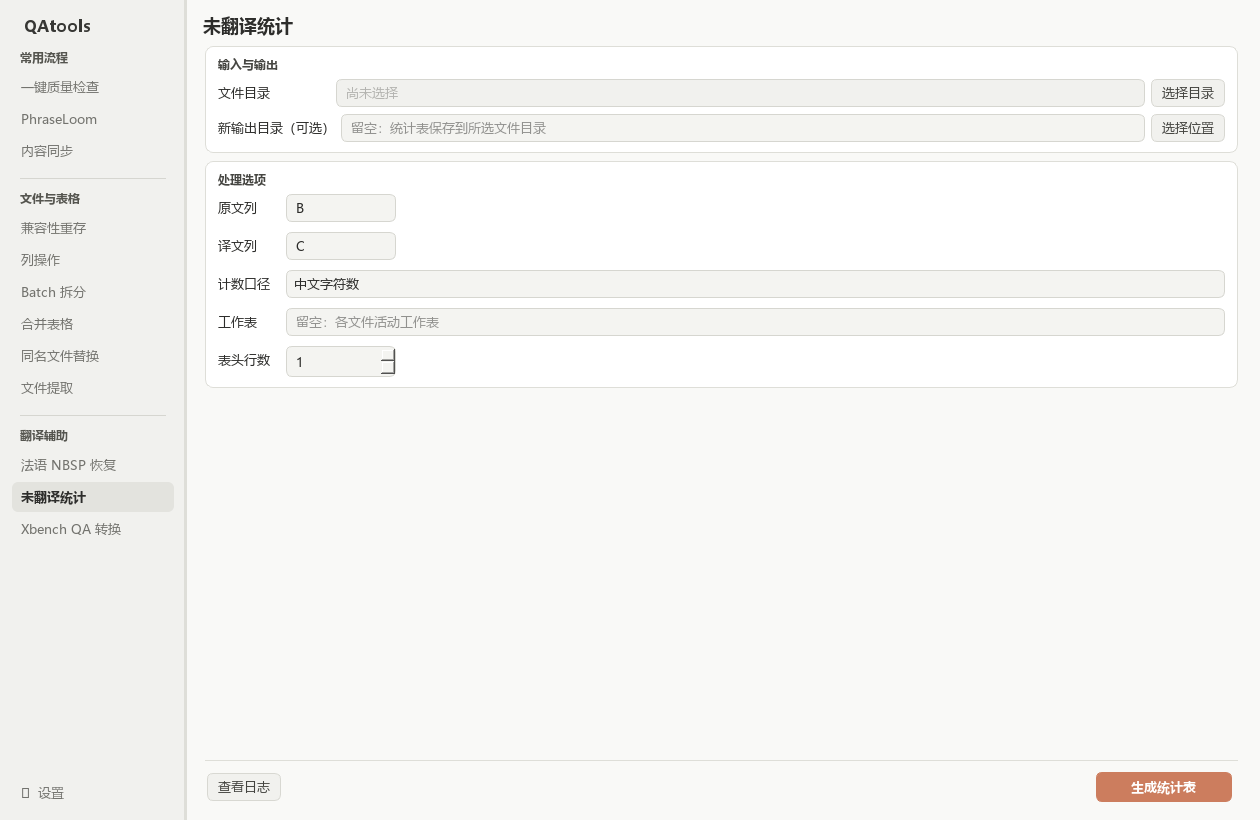
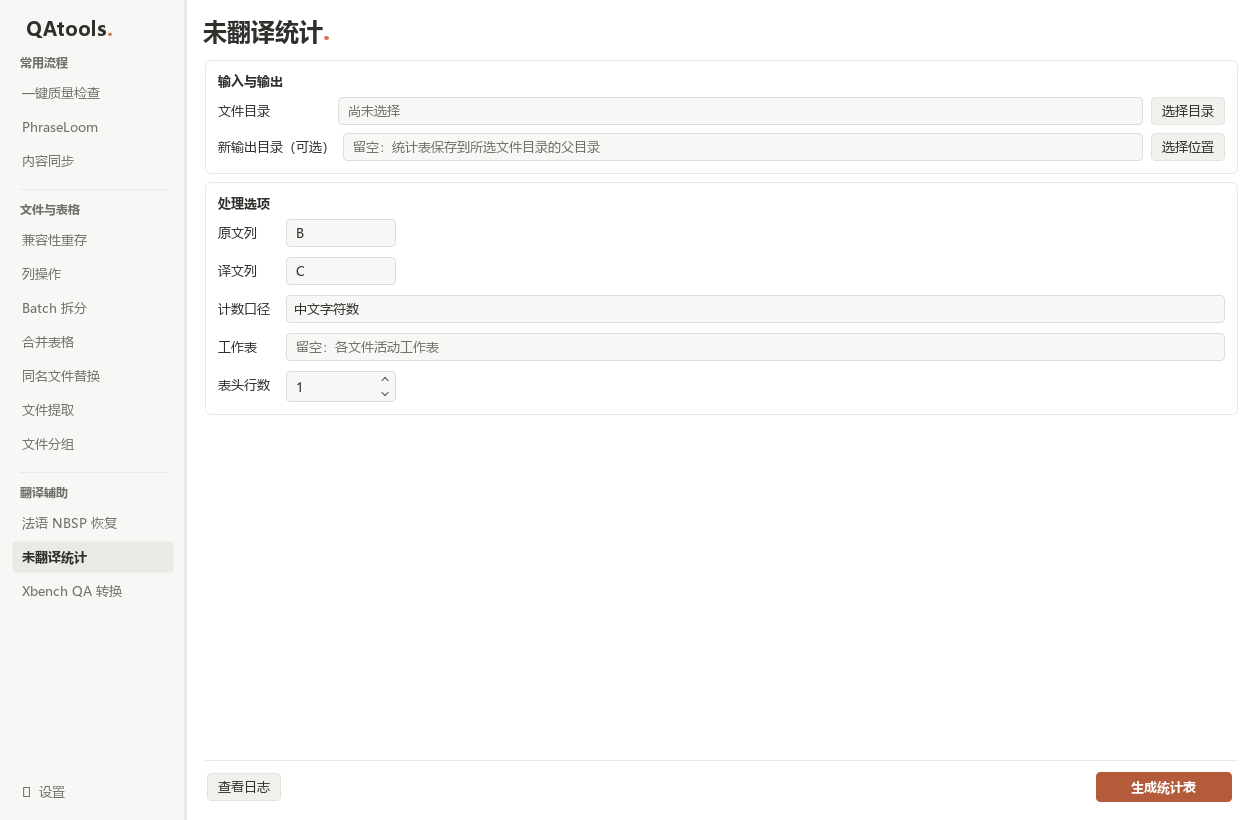
fix: save untranslated statistics in parent directory and release 0.1.10

diff --git a/docs/qa-workflow-guide/index.html b/docs/qa-workflow-guide/index.html
@@ -757,7 +757,7 @@
           </header>
           <h3>操作步骤</h3>
           <ol class="steps">
-            <li><strong>选择目录</strong><span>选择需要统计的工作簿目录。输出目录留空时，统计表放在这个目录；也可指定新目录。</span></li>
+            <li><strong>选择目录</strong><span>选择需要统计的工作簿目录。输出目录留空时，统计表放在所选目录的父目录；也可指定新目录。</span></li>
             <li><strong>确认列与口径</strong><span>默认原文 B 列、译文 C 列、1 行表头、活动工作表。按项目选择中文字符数或英文词数。</span></li>
             <li><strong>生成统计表</strong><span>点击【生成统计表】，打开“未翻译统计.xlsx”，查看各文件与最后一行总计。</span></li>
           </ol>

diff --git a/tests/test_momotools_utilities.py b/tests/test_momotools_utilities.py
@@ -171,19 +171,27 @@ class ReverseSyncTests(UtilityFixtures):
 
 
 class StatsTests(UtilityFixtures):
-    def test_default_saves_beside_inputs_and_repeated_run_excludes_own_result(self):
+    def test_default_saves_in_parent_and_repeated_run_excludes_legacy_report(self):
         path = self.targets / "a.xlsx"
         workbook(path, [["id", "s", "t"], [1, "你好", None]])
+        legacy = self.targets / "未翻译统计.xlsx"
+        workbook(legacy, [["id", "s", "t"], [1, "不应计入的旧结果", None]])
+        legacy_original = legacy.read_bytes()
         original = path.read_bytes()
         first = untranslated_stats(self.targets)
-        second = untranslated_stats(self.targets)
-        self.assertEqual(first.output_dir, self.targets)
+        second = untranslated_stats(self.targets, output_dir=" \t")
+        self.assertEqual(first.output_dir, self.targets.parent)
+        self.assertEqual(Path(first.details["excel_report"]), self.targets.parent / "未翻译统计.xlsx")
+        self.assertEqual(second.details["excel_report"], first.details["excel_report"])
         self.assertEqual(second.details["totals"], [2, 1, 2, 1])
         self.assertEqual(second.details["deduplicated_totals"], [2, 1, 2, 1])
         self.assertEqual(len(second.results), 1)
         self.assertEqual(path.read_bytes(), original)
+        self.assertEqual(legacy.read_bytes(), legacy_original)
         self.assertEqual({p.name for p in self.targets.iterdir()}, {"a.xlsx", "未翻译统计.xlsx"})
         copied = untranslated_stats(self.targets, output_dir=self.root / "statistics")
+        self.assertEqual(Path(copied.details["excel_report"]), self.root / "statistics" / "未翻译统计.xlsx")
+        self.assertTrue(Path(copied.details["excel_report"]).is_file())
         self.assertEqual(copied.details["totals"], second.details["totals"])
         self.assertEqual(copied.details["deduplicated_totals"], second.details["deduplicated_totals"])
 

diff --git a/tools/untranslated_stats/stats.py b/tools/untranslated_stats/stats.py
@@ -43,9 +43,9 @@ def untranslated_stats(target_dir: str | Path, *, output_dir: str | Path | None 
     if isinstance(header_rows, bool) or not isinstance(header_rows, int) or not 0 <= header_rows < 1048576:
         raise ValueError("表头行数必须是 0–1048575 的整数。")
     folder = Path(target_dir).expanduser().resolve()
-    output, inplace = optional_output_directory(output_dir, default=folder, inputs=(folder,))
+    output, use_default_output = optional_output_directory(output_dir, default=folder.parent, inputs=(folder,))
     report_file = output / "未翻译统计.xlsx"
-    files, skipped = excel_files(folder, extensions={".xlsx", ".xlsm"}, exclude=() if inplace else (output,))
+    files, skipped = excel_files(folder, extensions={".xlsx", ".xlsm"}, exclude=() if use_default_output else (output,))
     # The tool's reserved result name must never become its next source workbook.
     files = [path for path in files if path.name.casefold() != "未翻译统计.xlsx"]
     if not files:
@@ -99,7 +99,7 @@ def untranslated_stats(target_dir: str | Path, *, output_dir: str | Path | None 
         if result.status == "skipped":
             log_result(log_callback, result)
     deduplicated_totals = _deduplicated_counts(all_sources, all_untranslated_sources)
-    if not inplace:
+    if not use_default_output:
         create_output_directory(output)
     report = Workbook()
     try:

diff --git a/tools/untranslated_stats/cli.py b/tools/untranslated_stats/cli.py
@@ -4,14 +4,14 @@ from tools.batch_cli import add_output_options, column, execute, header_rows
 
 
 def main(argv=None):
-    parser = argparse.ArgumentParser(prog="qatools untranslated-stats", description="统计未翻译量；默认将统计表写入所选目录")
+    parser = argparse.ArgumentParser(prog="qatools untranslated-stats", description="统计未翻译量；默认将统计表写入所选目录的父目录")
     parser.add_argument("target_dir", help="工作簿目录，递归处理")
     parser.add_argument("-c", "--source-column", type=column, default="B", help="原文列（默认 B）")
     parser.add_argument("-t", "--target-column", type=column, default="C", help="译文列（默认 C）")
     parser.add_argument("--sheet", help="工作表名；省略使用活动工作表")
     parser.add_argument("--header-rows", type=header_rows, default=1, help="表头行数（默认 1）")
     parser.add_argument("--mode", choices=("chinese_chars", "english_words"), default="chinese_chars", help="计数口径（默认 chinese_chars）")
-    add_output_options(parser)
+    add_output_options(parser, default_action="将统计表保存到所选目录的父目录")
     options = vars(parser.parse_args(argv))
     from .stats import untranslated_stats
     return execute(untranslated_stats, **options)

diff --git a/scripts/capture_gui_guide.py b/scripts/capture_gui_guide.py
@@ -55,10 +55,11 @@ def main(tool=None):
                 raise RuntimeError(f"Could not save {name}")
             print(name)
 
-        if tool == "file_grouping":
-            capture(window, "file-grouping.png")
-            window.tool_frames["file_grouping"].input_kind.setCurrentIndex(1)
-            capture(window, "file-grouping-merged.png")
+        if tool in {"file_grouping", "untranslated_stats"}:
+            capture(window, tool.replace("_", "-") + ".png")
+            if tool == "file_grouping":
+                window.tool_frames["file_grouping"].input_kind.setCurrentIndex(1)
+                capture(window, "file-grouping-merged.png")
             window.close()
             app.processEvents()
             return
@@ -147,5 +148,5 @@ def main(tool=None):
 
 if __name__ == "__main__":
     parser = argparse.ArgumentParser(description=__doc__)
-    parser.add_argument("--tool", choices=("file_grouping",), help="仅更新指定新增页面的截图")
+    parser.add_argument("--tool", choices=("file_grouping", "untranslated_stats"), help="仅更新指定页面的截图")
     main(parser.parse_args().tool)

diff --git a/tests/test_new_tools_cli.py b/tests/test_new_tools_cli.py
@@ -131,7 +131,9 @@ class NewToolsCliTests(unittest.TestCase):
             code, output, errors = self.invoke("untranslated-stats", target.parent, "--mode", "english_words", "--quiet")
             self.assertEqual(code, 0, errors)
             self.assertIn("excel_report:", output)
-            report = target.parent / "未翻译统计.xlsx"
+            report = target.parent.parent / "未翻译统计.xlsx"
+            self.assertIn(str(report), output)
+            self.assertFalse((target.parent / "未翻译统计.xlsx").exists())
             self.assertEqual(self.values(report), ["a.xlsx", 4, 2, 5, 3, 2, 1, 3, 2])
             self.assertEqual(self.values(report, row=1)[5:], ["未翻译词数（原文去重）", "未翻译行数（原文去重）",
                                                             "总词数（原文去重）", "总行数（原文去重）"])

diff --git a/tests/test_excel_utilities_gui.py b/tests/test_excel_utilities_gui.py
@@ -136,7 +136,9 @@ class UtilitiesGuiTests(unittest.TestCase):
                 self.wait(stats)
             error.assert_not_called()
             self.assertEqual(stats.output_picker.path(), "")
-            self.assertTrue((targets / "未翻译统计.xlsx").is_file())
+            self.assertTrue((targets.parent / "未翻译统计.xlsx").is_file())
+            self.assertFalse((targets / "未翻译统计.xlsx").exists())
+            self.assertIn(str(targets.parent / "未翻译统计.xlsx"), stats.result.toPlainText())
             self.assertIn("统计表:", stats.result.toPlainText())
 
     def test_file_replacement_real_background_flow(self):

diff --git a/tools/excel_file_ops.py b/tools/excel_file_ops.py
@@ -129,7 +129,7 @@ def new_output_directory(output: str | Path, *, inputs: Iterable[Path]) -> Path:
 
 def optional_output_directory(output: str | Path | None, *, default: Path,
                               inputs: Iterable[Path]) -> tuple[Path, bool]:
-    """An omitted/blank output explicitly means operation at the input location."""
+    """Use the caller's default for omitted/blank output; explicit output must be a new directory."""
     if output is None or isinstance(output, str) and not output.strip():
         return default.resolve(), True
     return new_output_directory(output, inputs=inputs), False

diff --git a/tools/batch_cli.py b/tools/batch_cli.py
@@ -34,8 +34,8 @@ def column_count(value: str) -> int:
     return number
 
 
-def add_output_options(parser):
-    parser.add_argument("-o", "--output-dir", help="可选；省略或留空时在输入位置操作，填写时必须是尚不存在的新目录")
+def add_output_options(parser, *, default_action="在输入位置操作"):
+    parser.add_argument("-o", "--output-dir", help=f"可选；省略或留空时{default_action}，填写时必须是尚不存在的新目录")
     parser.add_argument("--quiet", action="store_true", help="仅输出最终摘要和异常，不输出逐文件运行日志")
 
 

diff --git a/tools/excel_utilities_pages.py b/tools/excel_utilities_pages.py
@@ -231,7 +231,7 @@ class DeepReplacePage(UtilityPage):
 class UntranslatedStatsPage(UtilityPage):
     suffix = "stats"
     button_text = "生成统计表"
-    output_hint = "留空：统计表保存到所选文件目录"
+    output_hint = "留空：统计表保存到所选文件目录的父目录"
 
     def add_options(self):
         self.source_column = QLineEdit("B")

diff --git a/qatools/__init__.py b/qatools/__init__.py
@@ -1,3 +1,3 @@
 """Unified command-line entry point for QAtools."""
 
-__version__ = "0.1.9"
+__version__ = "0.1.10"

diff --git a/docs/cli-usage.md b/docs/cli-usage.md
@@ -363,7 +363,7 @@ qatools merge-sheets ./excel-files --keep-all-headers
 帮助命令不加载 Excel、Qt 或工作簿处理依赖。环境安装见[兼容性重存](../tools/excel_compatibility/README.md#环境)。
 
 共同参数：`-o/--output-dir` 为**可选的新目录**，必须尚不存在；不传或传空字符串时
-按工具默认规则在输入位置操作。统计工具仅写统计表；其他工具修改目标工作簿。
+按工具默认规则确定输出位置（见下方各命令说明）。统计工具仅写统计表；其他工具修改目标工作簿。
 逐文件简约日志写入 stderr，最终摘要写入 stdout；`--quiet` 关闭运行日志，保留摘要、任务异常和会话警告。
 不附加 JSON/report 文件；统计表和原位文件替换的备份仍按各工具规则生成。
 
@@ -433,7 +433,7 @@ qatools untranslated-stats excel_files --sheet Data --header-rows 2 --mode engli
 `deep-replace` 接收来源、目标两个目录；默认先备份再原位替换。参数和规则见[同名文件替换](../tools/deep_replace/README.md)。
 `untranslated-stats` 接收一个目录，`-c/--source-column` 默认 `B`，`-t/--target-column` 默认 `C`；
 `--sheet` 默认活动表，`--header-rows` 默认 `1`；`--mode` 为 `chinese_chars`（默认）或 `english_words`。
-输出为 `未翻译统计.xlsx`；统计中的文字 nan 口径与同步不同，见[统计规则](../tools/untranslated_stats/README.md)。
+输出为 `未翻译统计.xlsx`，默认保存到所选目录的父目录；统计中的文字 nan 口径与同步不同，见[统计规则](../tools/untranslated_stats/README.md)。
 
 ## 兼容入口
 
